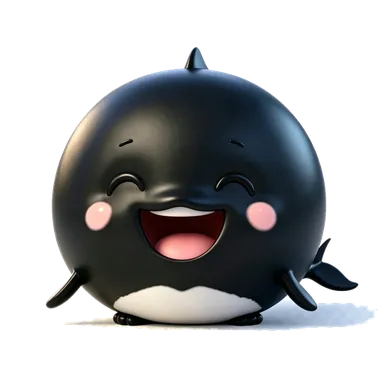
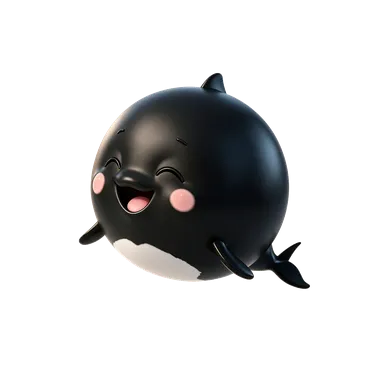
feat(pet): v0.4.16 小黑鲸素材升级 V2 — 正面偏30度、去投影、细节更丰富
- 用 V2 帧重新合成 black-whale 素材(anim 313.6KB + idle 48.7KB,比 V1 更小);皮肤 id 不变,客户端零改动
- README 黑鲸情绪 GIF 换 V2 版(2560×512→1280×256 压缩至 430KB,6 帧动画)
- CHANGELOG v0.4.16;DESKTOP-PET 素材版本标注 V2;版本 0.4.16
- 冒烟 30 项全绿;V2 WebP 验证:6 帧/全透明/边缘抗锯齿

未推送,待验收。

diff --git a/docs/DESKTOP-PET.md b/docs/DESKTOP-PET.md
@@ -26,7 +26,7 @@
 
 ## 3. 形态与素材(落地决策)
 
-- **皮肤:双皮肤(v0.4.5)** —— **「圆滚滚小黑鲸」**(DSH 黑色品牌)+ **「圆滚滚小蓝鲸」**(DeepSeek 蓝色品牌,正视偏左 30 度);配置 `skin` 字段(`black-whale` / `blue-whale`)切换,即时生效;
+- **皮肤:双皮肤(v0.4.5)** —— **「圆滚滚小黑鲸」(v0.4.16 升级 V2:正面偏 30°、去投影、细节更丰富)** + **「圆滚滚小蓝鲸」**(DeepSeek 蓝色品牌,正视偏左 30 度);配置 `skin` 字段(`black-whale` / `blue-whale`)切换,即时生效;
 - **素材格式:动画 WebP(决策点 2 结论)** —— 由各皮肤素材库 `assets/animations/frames/*_processed.png`(RGBA,带抗锯齿半透明像素)合成,真 alpha 透明、每皮肤 ~400-470KB(比 GIF 小一半);
   - GIF 只支持二值透明,深色主题下白边明显(已实测:半透明像素=0,角点为近白透明);
   - 转换脚本:`AI桌面宠物/black-whale-petblack-whale-pet-圆滚滚小黑鲸 V1/scripts/gif2webp.py <pet-repo> <plugin-repo> <skin>`(本机 PIL 一次性转换,产物入库);

diff --git a/CHANGELOG.md b/CHANGELOG.md
@@ -9,7 +9,13 @@
 - **宠物 schema 兼容旧版布尔**:`enabled` 改为 `z.union([z.string(), z.boolean()])`,旧配置不再触发校验失败(显示层仍走 `normalizeEnabled` 归一化)。
 - **注册隔离**:三个命名空间逐个注册并捕获失败——今后任一命名空间的脏值只跳过自己并打印警告,绝不再连累 `custom-instructions` 一起消失。
 
+## [0.4.16] - 2026-08-22
+
+### 变更
+- **小黑鲸素材升级 V2**:角色改为**正面偏 30°**(细节更丰富,与圆滚滚小蓝鲸同设计逻辑)、**去掉投影**;素材由 V2 帧重新合成(anim 313.6KB + idle 48.7KB,比 V1 更小);皮肤 id 不变(`black-whale`),配置无缝,客户端逻辑零改动。
+
 ## [0.4.15] - 2026-08-21
+
 
 ### 修复
 - **宠物形象动画时的"边框"**:预览图去掉圆形裁切与背景——动画帧角色会位移/缩放(黑鲸动作帧缩小偏移、蓝鲸帧撑满宽度),圆形裁剪会产生明显的"框"感;改为方形透明显示,透明区与卡片底色融合,不再有边框感。
